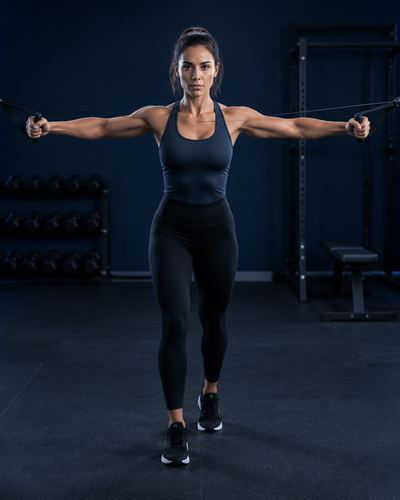
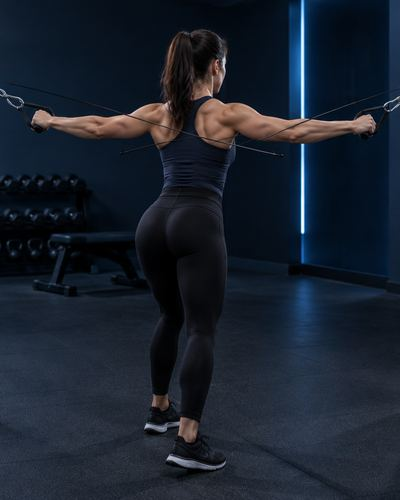
Übungsfotos: Stange quer statt längs, Hip Thrust in der Endposition
Bei Hip Thrust, Bankdrücken, Schrägbankdrücken, Kniebeuge, Bulgarian Split
Squat und Ausfallschritt an der Multipresse lag die Stange längs zum Körper.
Neu erzeugt von schräg vorn. Dazu Reverse Butterfly am Kabel mit gekreuzten
Seilen und Rudern breit mit abgespreizten Ellbogen.

Claude-Session: https://claude.ai/code/session_01MPv65TyRWfLE6TBM7iE6xk

diff --git a/apps/pwa/sw.js b/apps/pwa/sw.js
@@ -6,7 +6,7 @@
  * ist der einzige Weg, den Nutzer zu erreichen, waehrend die App geschlossen
  * ist. Siehe workers/push.
  */
-const CACHE = "daevo-v113";
+const CACHE = "daevo-v114";
 const ASSETS = [
   "./",
   "./index.html",

diff --git a/CLAUDE.md b/CLAUDE.md
@@ -268,6 +268,11 @@ Strichfiguren, keine Clip Art, keine Karten mit Rahmen um Text.
   oben nach unten, Kickback einbeinig und seitlich für den Gluteus medius. Auf
   der Schrägbank mit Kurzhanteln Rudern eng und breit, Reverse Fly und
   Fliegende.
+- Fotos an der Multipresse oder mit Langhantel werden von vorn oder schräg
+  vorn erzeugt. In der Seitenansicht legte das Bildmodell die Stange bei sechs
+  von sieben Übungen längs zum Körper statt quer über Schultern, Brust oder
+  Hüfte, und das fiel erst dem Nutzer auf. Beim Prüfen eines neuen Fotos
+  zuerst nachsehen, wie die Stange zum Körper liegt, dann die Gelenkwinkel.
 
 ### Trainingspläne
 
